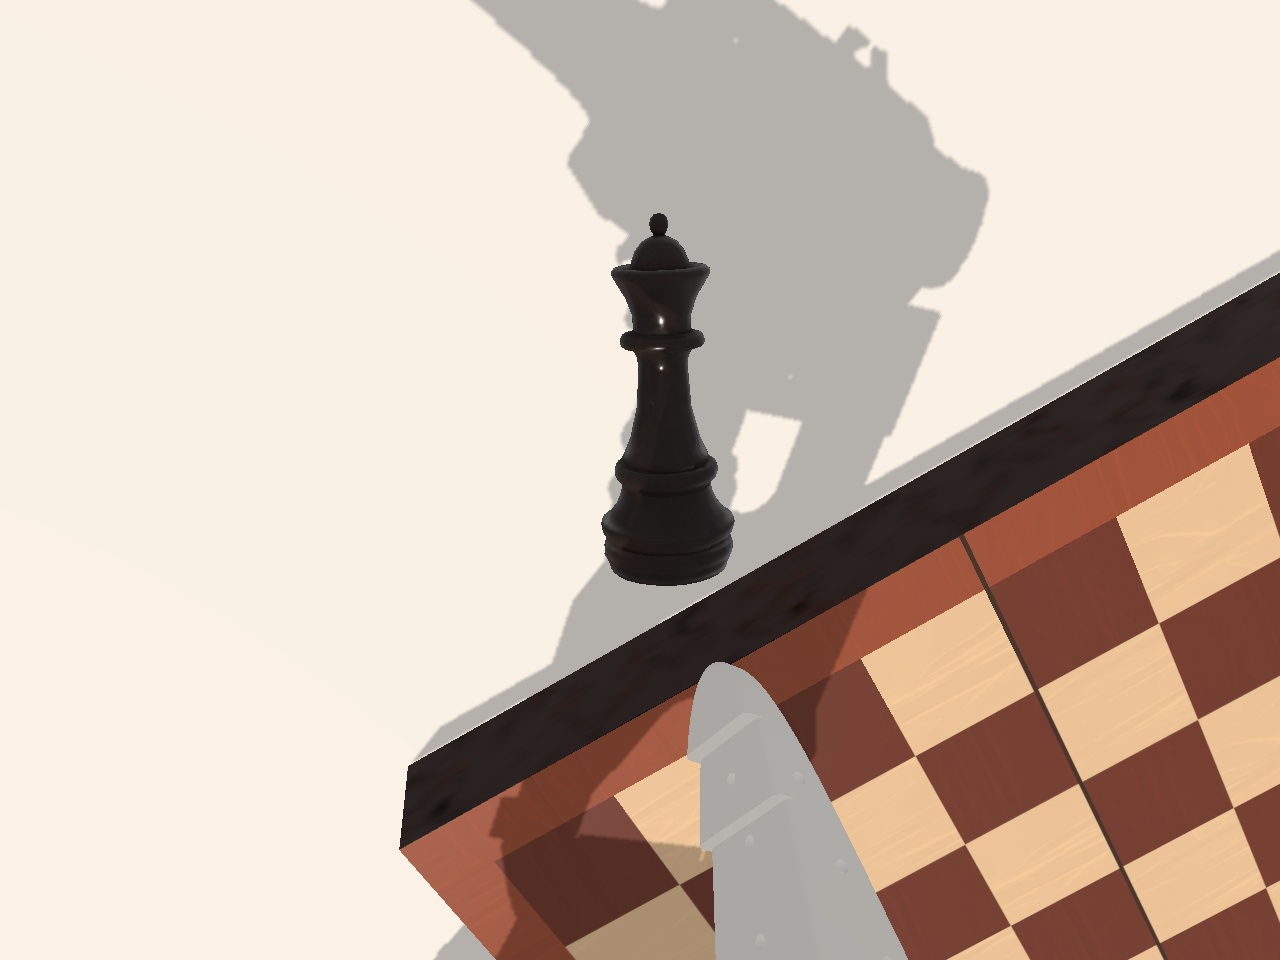
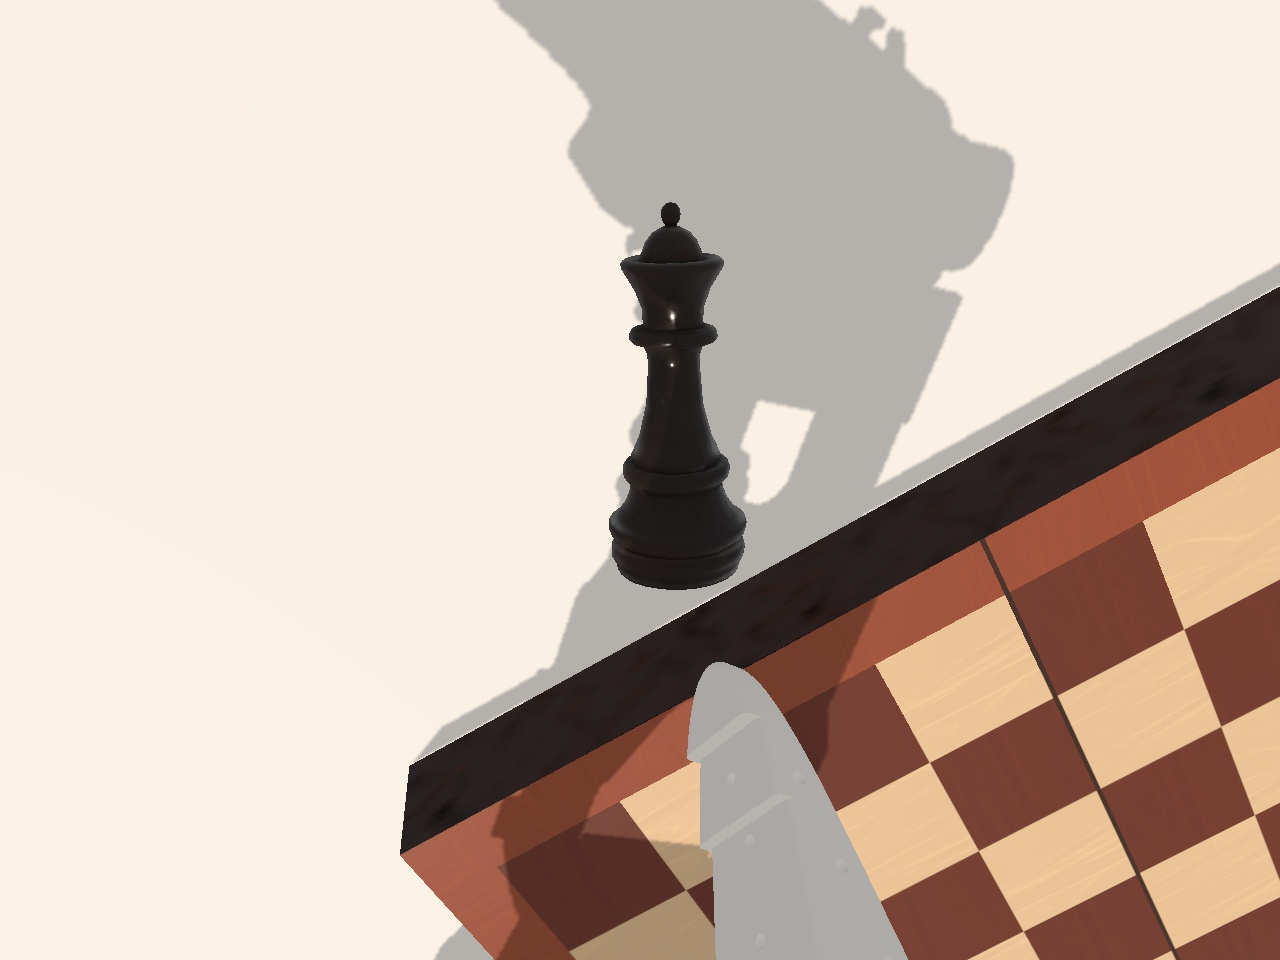
Lower so101-real's shoulder 4° while the arm hangs free far out
The near-table photos fit best with the real shoulder 4° below the model in
free air at lift readings past 35°. The term scales with the share of its
gravity torque the shoulder carries itself, so it vanishes when the gripper
rests on the table, board or queen, and B and C's real readings still put
the jaw on the table. D drops from 4.45 to 2.66 cm (real ≈0.5).

diff --git a/examples/so101-real/servo.ts b/examples/so101-real/servo.ts
@@ -53,15 +53,22 @@ export interface ServoJoint {
   friction: boolean;
 }
 
-/**
- * The hidden map between readings and true joint angles, both in a joint order, given the
- * torques, N·m, the joints pass on to their links.
- */
+/** How the links are loaded: what bends them away from the readings. */
+export interface Loading {
+  /** The torques, N·m, the joints pass on to their links. */
+  torques: readonly number[];
+  /**
+   * For each joint, how much of the torque holding its links up against gravity it carries
+   * itself: 1 with the arm hanging free, 0 with the gripper resting on something.
+   */
+  hanging: readonly number[];
+}
+/** The hidden map between readings and true joint angles, both in a joint order. */
 export interface Calibration {
   /** True joint angles, radians, for readings. */
-  angles(readings: readonly number[], torques: readonly number[]): number[];
+  angles(readings: readonly number[], loading: Loading): number[];
   /** Readings for true joint angles. */
-  readings(angles: readonly number[], torques: readonly number[]): number[];
+  readings(angles: readonly number[], loading: Loading): number[];
 }
 /** How fast the bending follows the link torque, s: it also keeps the P loop through it stable. */
 const BENDING = 0.05;
@@ -86,13 +93,14 @@ export class ServoBus {
   readonly events: ((message: string) => void)[] = [];
   readonly joints: readonly ServoJoint[];
   readonly calibration: Calibration;
-  private readonly linkTorques: () => number[];
-  /** The link torques, N·m, as the bending has followed them. */
+  private readonly linkTorques: () => { total: number[]; gravity: number[] };
+  /** The link torques, N·m, as the bending has followed them, total and against gravity. */
   torques?: number[];
+  private gravity?: number[];
   constructor(
     joints: readonly ServoJoint[],
     calibration: Calibration,
-    linkTorques: () => number[],
+    linkTorques: () => { total: number[]; gravity: number[] },
   ) {
     this.joints = joints;
     this.calibration = calibration;
@@ -160,10 +168,12 @@ export class ServoBus {
   beforeStep(_time: number, dt: number): void {
     const { angles } = this.measure();
     const now = this.linkTorques();
-    this.torques ??= now;
-    const torques = this.torques.map((t, i) => t + (now[i]! - t) * Math.min(1, dt / BENDING));
-    this.torques = torques;
-    const present = this.calibration.readings(angles, torques);
+    const follow = (was: number[] | undefined, to: number[]) =>
+      (was ?? to).map((t, i) => t + (to[i]! - t) * Math.min(1, dt / BENDING));
+    this.torques = follow(this.torques, now.total);
+    this.gravity = follow(this.gravity, now.gravity);
+    const loading = this.loading();
+    const present = this.calibration.readings(angles, loading);
     // On power-up the servos hold where they are, as LeRobot's connect does.
     if (!this.states.length)
       for (const reading of present)
@@ -177,7 +187,7 @@ export class ServoBus {
     // The goal as a true angle, were the link to bend as it does now: the P law on the reading.
     const goals = this.calibration.angles(
       this.states.map((s) => s.goal),
-      torques,
+      loading,
     );
     const base = 16 * STIFFNESS_PER_P;
     this.joints.forEach(({ torqueLimit }, i) => {
@@ -199,6 +209,17 @@ export class ServoBus {
       if (drive.target?.position !== position) drive.setTarget({ position });
     });
   }
+  /** The links' loading now; unloaded before the first step. */
+  loading(): Loading {
+    const torques = this.torques ?? this.joints.map(() => 0);
+    const gravity = this.gravity ?? torques;
+    return {
+      torques,
+      hanging: torques.map((t, i) =>
+        Math.abs(gravity[i]!) < 1e-3 ? 1 : Math.min(1, Math.max(0, t / gravity[i]!)),
+      ),
+    };
+  }
   /** The arm held its pose all through a pause between turns. */
   resumed(wallSeconds: number): void {
     this.states.forEach((_, i) => this.heat(i, Math.min(PAUSE, wallSeconds)));
@@ -218,7 +239,7 @@ export class ServoBus {
     if (time - this.last < 0.02 - 1e-9) return;
     this.last = time;
     const { angles, velocities } = this.measure();
-    const readings = this.calibration.readings(angles, this.torques ?? angles.map(() => 0));
+    const readings = this.calibration.readings(angles, this.loading());
     const units = this.joints.map((j) => j.unitsPerDegree);
     this.ros.publish("/follower/joint_states", "sensor_msgs/msg/JointState", {
       header: header(time, ""),

diff --git a/examples/so101-real/calibration.ts b/examples/so101-real/calibration.ts
@@ -50,19 +50,32 @@ const REFERENCE = [0, -0.54, -0.42, 0, 0];
 /** Zero errors with the links unloaded: true = reading + offset − bending·torque. */
 const OFFSET = FITTED.map((f, i) => f + BENDING[i]! * REFERENCE[i]!);
 
+/**
+ * What the bending does not explain: hanging free far out, the real shoulder sits about 4° lower
+ * than the calibrated model says (the near-table photos of §5; D). It ramps in with the lift
+ * reading from 5° to 35° and only while the arm hangs: it fades as the gripper comes to rest on
+ * the table, board or queen.
+ */
+const HANGING = [0, 4, 0, 0, 0];
+const share = (lift: number) => Math.min(1, Math.max(0, (lift - 5) / 30));
+
 export const calibration: Calibration = {
-  angles(readings, torques) {
+  angles(readings, { torques, hanging }) {
+    const g = share(readings[1]!) * hanging[1]!;
     return readings.map((r, i) =>
       i === 5
         ? GRIPPER_CLOSED + (r / 100) * GRIPPER_TRAVEL
-        : (r + OFFSET[i]! - BENDING[i]! * torques[i]!) * deg,
+        : (r + OFFSET[i]! - BENDING[i]! * torques[i]! + g * HANGING[i]!) * deg,
     );
   },
-  readings(angles, torques) {
+  readings(angles, { torques, hanging }) {
+    const plain = angles.map((a, i) => a / deg - OFFSET[i]! + BENDING[i]! * torques[i]!);
+    // The shoulder's reading decides the hanging term: solve for it by fixed-point iteration.
+    let lift = plain[1]!;
+    for (let k = 0; k < 8; k++) lift = plain[1]! - share(lift) * hanging[1]! * HANGING[1]!;
+    const g = share(lift) * hanging[1]!;
     return angles.map((a, i) =>
-      i === 5
-        ? ((a - GRIPPER_CLOSED) / GRIPPER_TRAVEL) * 100
-        : a / deg - OFFSET[i]! + BENDING[i]! * torques[i]!,
+      i === 5 ? ((a - GRIPPER_CLOSED) / GRIPPER_TRAVEL) * 100 : plain[i]! - g * HANGING[i]!,
     );
   },
 };

diff --git a/examples/so101-real/load.ts b/examples/so101-real/load.ts
@@ -19,20 +19,22 @@ export interface Link {
 
 /**
  * For each joint, the torque about its axis, N·m, the joint exerts on its link to hold `beyond`
- * (that joint's link and every link after it) still against gravity and outside contacts.
+ * (that joint's link and every link after it) still against gravity and outside contacts, and
+ * the part of it that holds them against gravity alone.
  */
 export function linkTorques(
   joints: readonly RevoluteJoint[],
   beyond: readonly (readonly Link[])[],
   robot: object,
-): number[] {
+): { total: number[]; gravity: number[] } {
   const world = getROS2().world;
   const frame = new Matrix4();
   const axis = new Vector3();
   const origin = new Vector3();
   const arm = new Vector3();
   const point = new Vector3();
-  return joints.map((joint, i) => {
+  const gravity: number[] = [];
+  const total = joints.map((joint, i) => {
     const parent = joint.options.body0!;
     parent.updateWorldMatrix(true, false);
     frame.multiplyMatrices(parent.matrixWorld, joint.options.frame0!);
@@ -43,6 +45,9 @@ export function linkTorques(
       body.updateWorldMatrix(true, false);
       point.copy(centre).applyMatrix4(body.matrixWorld);
       load += arm.subVectors(point, origin).cross(GRAVITY).multiplyScalar(mass).dot(axis);
+    }
+    gravity.push(-load);
+    for (const { body } of beyond[i]!) {
       for (const contact of world.contacts(body)) {
         if (contact.otherBody.parent === robot) continue;
         const force = contact.normal.clone().multiplyScalar(contact.force);
@@ -51,4 +56,5 @@ export function linkTorques(
     }
     return -load;
   });
+  return { total, gravity };
 }

diff --git a/examples/so101-real/FIDELITY.md b/examples/so101-real/FIDELITY.md
@@ -19,7 +19,11 @@ All runs use seed 0, the measured scene. Status: ✅ reproduced, ◐ partly, ✗
   in the air bends it a little more than there. Resting it on the table unbends it: the link sits
   higher than its readings suggest, and pressing harder moves the readings without moving the
   link. Friction does not bend the link, so a 3° goal step at rest changes the load but not the
-  reading (§2). The +65° roll offset is invisible to a roll-0 camera calibration (LeRobot's roll
+  reading (§2). One more term: while the arm hangs free far out, the shoulder sits 4° lower than
+  the model says. It ramps in with the lift reading from 5° to 35° and scales with the share of
+  its gravity torque the shoulder carries itself (1 in free air, 0 with the gripper resting on
+  something). 4° fits the four near-table free-air photos best (`fit.py`: 75.3 → 70.3 px rms,
+  flat from 3° to 5°). The +65° roll offset is invisible to a roll-0 camera calibration (LeRobot's roll
   zero is the middle of a full turn, so arbitrary). It puts the jaws where the real photos show
   them.
 - **Servos** (`servo.ts`): P-only, torque = K(goal − present) capped at stall (2.94 N·m; gripper
@@ -50,7 +54,7 @@ All runs use seed 0, the measured scene. Status: ✅ reproduced, ◐ partly, ✗
 | Intrinsics 1280×960, f = 1061, centred | ✅ | `robot.ts`; CameraInfo k = [1061, 0, 640, 0, 1061, 480] |
 | Calibrated mount, jaws bottom-centre, fixed tip ≈ (710–735, 650–670) px | ✅ | `cmp-01-wrist40.jpg`, `cmp-03-pan-30.jpg`: black jaw left of white, as in the real images; projected fixed tip ≈ (735, 670) |
 | Views in the calibration region | ✅ | `cmp-03-pan-30.jpg`: board corner within ≈40 px; `cmp-01-wrist40.jpg` board rows within ≈40 px |
-| Views near the table (§5 poses) | ◐ | `cmp-26-view.jpg`, `cmp-30-sA/sB.jpg`, `cmp-20-pre.jpg`: same content and layout, but the sim camera sits higher than the real one: the real arm hangs ≈3.5° of shoulder lower in these free-air poses than the calibrated model says (fitting the photos alone, `fit.txt`), which the bending does not produce (see D below) |
+| Views near the table (§5 poses) | ◐ | `cmp-26-view.jpg`, `cmp-30-sA/sB.jpg`, `cmp-20-pre.jpg`: same content and layout; feature residuals 70 px rms with the hanging term, 75 px without (queen 30–110 px, board edge 50–175 px; the board's measured pose limits the fit) |
 | Calibration only valid at roll ±20° (§6.7) | ◐ | The roll offset makes any roll-0 calibration wrong about where the jaws are; views at other rolls are off by about as much as at roll 0 (see the previous row), so the solver's own calibration will degrade there. Not separately modelled. |
 | Magenta cast, libcamera | ✗ skipped | Not relevant to the task |
 
@@ -62,10 +66,10 @@ P=16. *Reached*: goals nudged until the readings match, like the real sag correc
 
 | Event | Real | Sim | Status |
 | --- | --- | --- | --- |
-| B (−46.5, 53.3, −49.0, 83.2, −64.7) | fixed jaw on table at these readings; model −0.3 cm | reached: jaw on table (0.04 cm) at readings (53.4, −49.3); plain (P=16 sag): stops at lift 51.0, elbow −46.3, jaw 2.8 cm up | ✅ |
-| C (−48.7, 48.8, −44.7, 83.0, −71.7) | on table again; model +0.6 | reached: 0.54 cm at readings (48.8, −44.8); plain: on the table at (50.1, −39.7) | ✅ |
-| D (−48.7, 34.8, −36.0, 83.2, −71.7) after "up 4 cm" from C | ≈0.5 cm above the table (by eye); model +4.5; the commanded 3.9 cm lift was really 0.5–1 cm | plain from C (the real sequence): readings stop at (42.1, −36.2) under sag and friction, jaw **1.4 cm** above the table; at D's readings exactly (reached): **4.45 cm** | ◐ the lift from C comes out as small as on the real arm, but D's readings themselves leave the jaw 4 cm higher than observed |
-| Descent at (−44.8, 37.5, −31.4, 82.5, −62.5) | jaw resting on the lying queen's base (≈2.9 cm) | reached: jaw 2.26 cm above the table at (37.4, −31.5); the measured queen pose puts its base beside the jaw, not under it | ◐ height right, contact not |
+| B (−46.5, 53.3, −49.0, 83.2, −64.7) | fixed jaw on table at these readings; model −0.3 cm | reached: on the table (0.04 cm) at (53.5, −49.3); plain: on the table at (53.6, −43.9) | ✅ |
+| C (−48.7, 48.8, −44.7, 83.0, −71.7) | on table again; model +0.6 | reached: on the table (0.03 cm) at (49.0, −45.3); plain: on the table at (49.6, −39.7) | ✅ |
+| D (−48.7, 34.8, −36.0, 83.2, −71.7) after "up 4 cm" from C | ≈0.5 cm above the table (by eye); model +4.5; the commanded 3.9 cm lift was really 0.5–1 cm | at D's readings (reached, free air): **2.66 cm**; plain from C (the real sequence): readings stop at (42.0, −36.4) under sag and friction, jaw still on the table (0.02 cm) | ◐ |
+| Descent at (−44.8, 37.5, −31.4, 82.5, −62.5) | jaw resting on the lying queen's base (≈2.9 cm) | reached: hangs free at 0.71 cm, the measured queen pose puts the base beside the jaw; at rest on something it would sit at 2.26 cm (the bending alone) | ◐ height right if supported, contact not |
 | Early test (0, −30.7, 93.4, 0, 0) | gripper pressed into table | elbow goal clamped to the calibrated 86.8°; tip 3.5 cm above table | ✗ (a reading beyond the calibrated range; unclear on hardware) |
 | Light contacts, low forces; load misses them | yes | every touch is logged on `/sim/audit` with links, duration, servo loads and its peak contact force (`world.contacts`); metrics `maxForce_table`, `_chessboard`, `_queen`. Plain touches 15 N, sag-corrected ones 24–45 N; the real forces were not measured | ✅ |
 | Contact force = weight at rest | — | queen standing on the table: 0.323 N = m·g (32.9 g), error 0 % (`weight.ts`) | ✅ |
@@ -106,16 +110,15 @@ the shoulder settled coming up from below, as the real holding load of 320–336
 Colour cast; load noise and the exact hysteresis shape; the real v47 gripper and camera mount
 geometry (CAD gripper used, camera board as a 25×24×12 mm box); queen mass beyond "tens of grams".
 
-## Open: D against B, C and the calibration
+## Open: D's remaining 2 cm
 
 D's 4 cm error was observed in free air, holding the arm's weight. The calibration poses are also
 in free air, and in the sim the shoulder and elbow carry about the same torque in both (lift
-−0.54 vs −0.6…−0.67 N·m, elbow −0.42 vs −0.35). Any bending driven by that torque therefore moves
-D by about as much as it moves the calibration poses, where the fitted offsets have to hold.
-Bending stiff enough to lower D by 4 cm relative to them (≈60–90°/N·m) would move the readings by
-degrees whenever the queen is picked up or the jaw brushes the table. So the bending reproduces
-the contacts (B, C, Q) and the small lift-off from C, but not D's absolute height. The near-table
-free-air photos agree with D in direction (the real arm hangs ≈3.5° of shoulder lower than the
-model there). Something pose-dependent in free air remains unexplained. It could be the earlier
-lift-dependent shoulder term (`git show 9d9109a:examples/so101-real/calibration.ts`) at about
-3.5–10°, at the price of B, C and Q. A measured contact at lift ≈35° in free air would settle it.
+−0.54 vs −0.6…−0.67 N·m, elbow −0.42 vs −0.35), so the bending cannot tell them apart. The
+hanging term adds 4° of shoulder far out in free air, fitted to the near-table photos, and lowers
+D from 4.45 to 2.66 cm. A 10° term would match D but makes the photos worse (85 px rms) and puts
+far-out free-air poses 4 cm low. So D's jaw stays ≈2 cm higher than the real arm's. D was judged
+by eye after a move up from the table; a measured free-air contact at lift ≈35° would settle it.
+Lifting off from C, the real arm gained 0.5–1 cm; the sim's plain command does not lift off at
+all, because sag and friction stop the readings 7° short and the hanging term lowers the link as
+it leaves the table.
